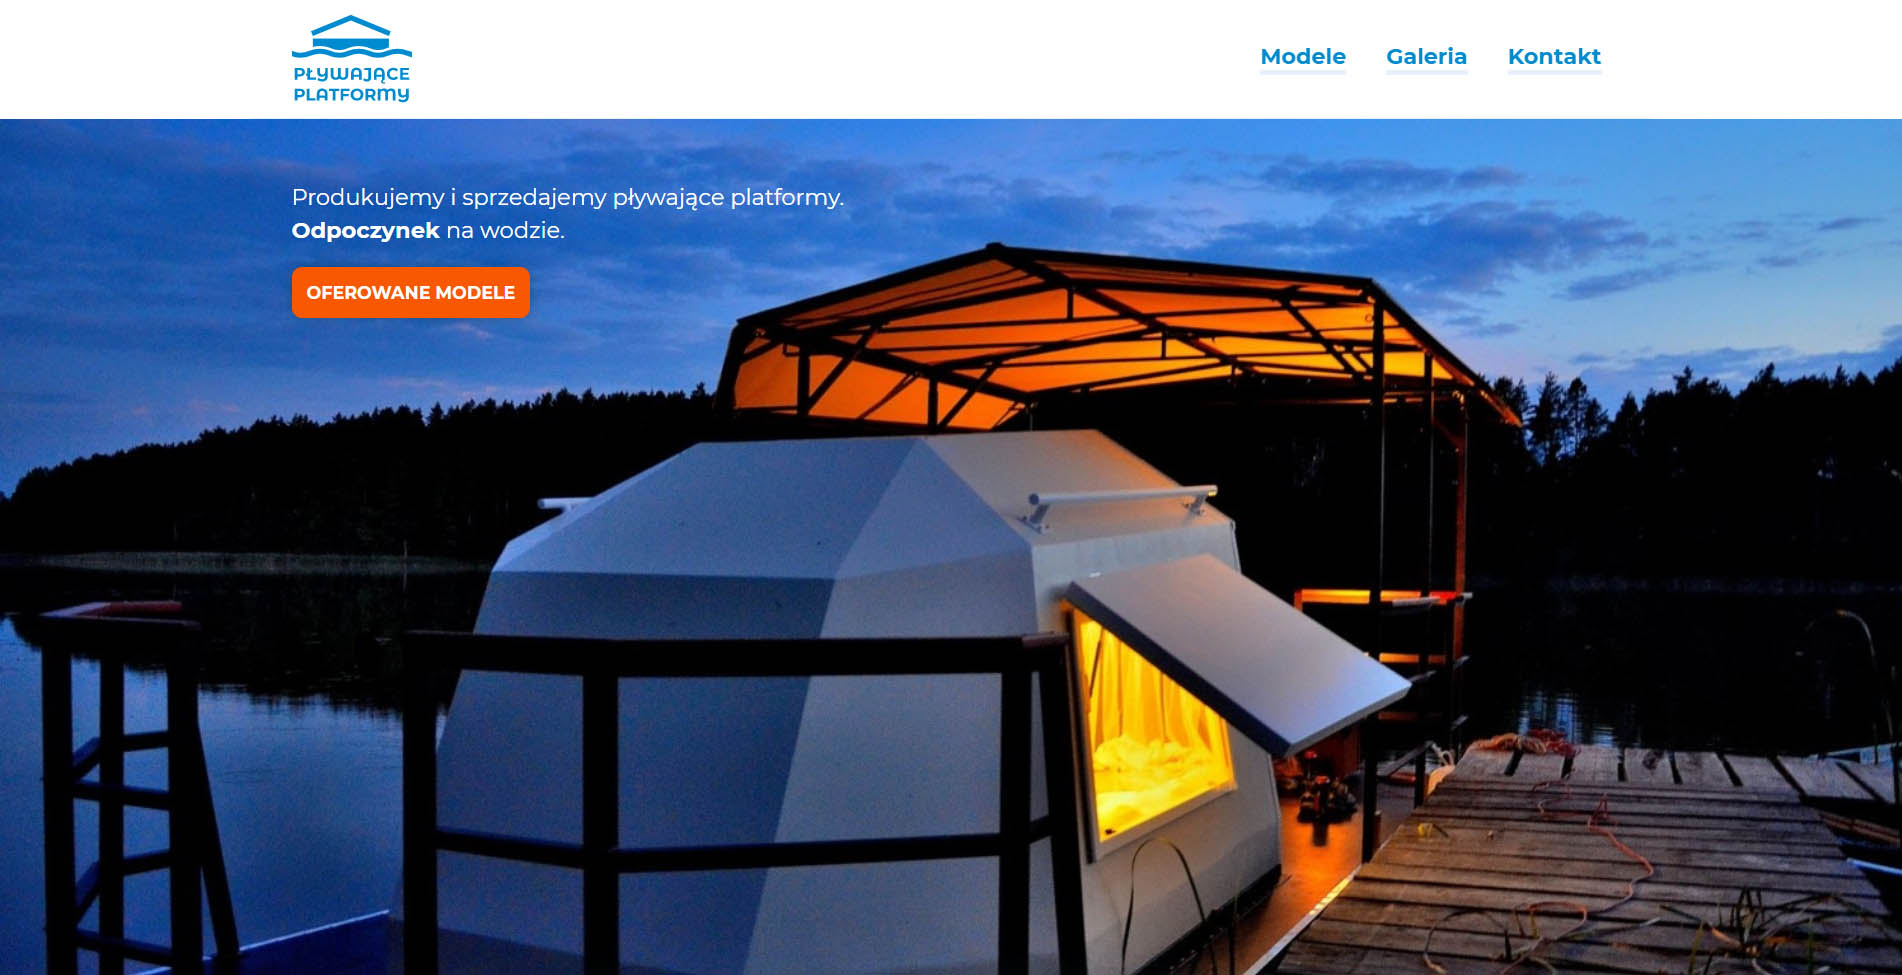
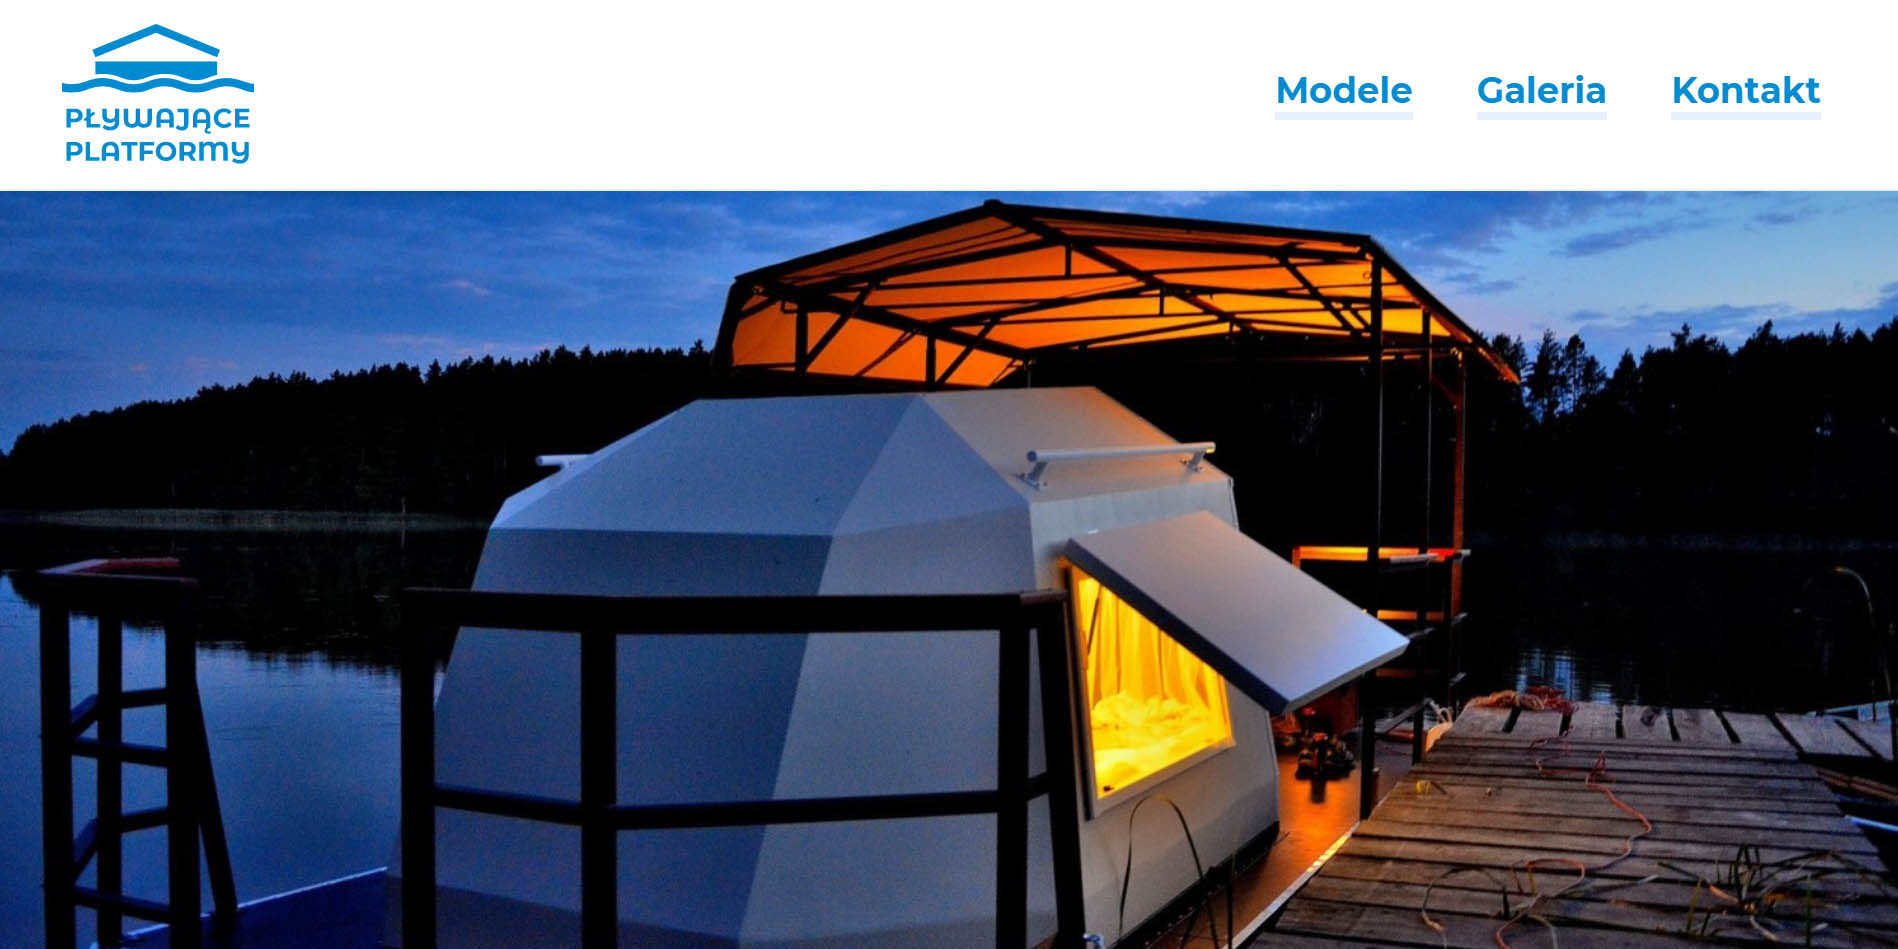
now it can go public actually at least :D
1.0.0.0

diff --git a/src/App/Work/index.jsx b/src/App/Work/index.jsx
@@ -4,6 +4,7 @@ import WorkElement from '../WorkElement';
 import './index.css';
 import PnpImg from '../../images/pnp.jpg';
 import PpImg from '../../images/pp.jpg';
+import PgwImg from '../../images/pgw.jpg';
 
 const Work = () => {
   const gridTransition = {
@@ -25,40 +26,48 @@ const Work = () => {
     title: 'Pogoda na Polu',
     link: "https://pogodanapolu.netlify.app/",
     sourceLink: "https://github.com/LaminarPLayer/pogoda-na-polu",
-    description: <p>Pogoda na Polu (polish, regional: “weather outside”) is a weather web app – also a PWA – that uses an <a href="https://openweathermap.org/api">OpenWeatherMap API</a> API and <a href="https://developers.google.com/maps/documentation/javascript/overview">Google Maps JavaScript API</a>. More description on GitHub.</p>
+    description: <p>Pogoda na Polu (polish, regional: “weather outside”) is a weather web app – also a PWA – that uses an <a href="https://openweathermap.org/api">OpenWeatherMap API</a> API and <a href="https://developers.google.com/maps/documentation/javascript/overview">Google Maps JavaScript API</a>. Built with HTML, CSS (SASS), custom animated SVGs and vanilla JavaScript. More description on GitHub.</p>
   }
 
   const pp = {
     img: <img src={PpImg} alt='Pływające Platformy' />,
     title: 'Pływające Platformy',
     link: "https://strona-platform.netlify.app/",
-    sourceLink: "/",
-    description: <p>XDStrona przerwana</p>
+    // sourceLink: "/",
+    description: <p>A website for a company manufacturing platforms floating on the water. Due to change of company needs the website had not been finished. Built with HTML, CSS and vanilla JavaScript. The animated logo was created using Figma and some code-based SVG modifications.</p>
+  }
+
+  const pgw = {
+    img: <img src={PgwImg} alt='This website' />,
+    title: 'This website itself',
+    link: "/",
+    sourceLink: "https://github.com/LaminarPLayer/pg-website",
+    description: <p>This website was built with React (create-react-app). Yet, still, in development the website can uses some basic React concepts – JSX, functional components with basic hooks and an awesome <a href="https://www.framer.com/motion/">Framer Motion</a> library. The website will be improved week after week.</p>
   }
 
   return (
-    <section id='my-work'>
-      <motion.div className="work-container"
-        drag='x'
-        dragTransition={gridTransition}
-      >
-        <div id="engineering" className="work-topic">
-          <h2>Engineering</h2>
-        </div>
+    <>
+      <h2 id='my-works'>My works</h2>
+      <p>Here are a few projects I made:</p>
+      <section id='my-work'>
+        <motion.div className="work-container"
+          drag='x'
+          dragTransition={gridTransition}
+        >
+          <div id="engineering" className="work-topic">
+            <WorkElement info={pgw} />
+          </div>
 
-        <div id="dev" className="work-topic">
-          <h2>Web Development</h2>
-          <p>Here are a few projects I made:</p>
+          <div id="dev" className="work-topic">
+            <WorkElement info={pnp} />
+          </div>
 
-          <WorkElement info={pnp} />
-          <WorkElement info={pp} />
-        </div>
-
-        <div id="design" className="work-topic">
-          <h2>Design</h2>
-        </div>
-      </motion.div>
-    </section>
+          <div id="design" className="work-topic">
+            <WorkElement info={pp} />
+          </div>
+        </motion.div>
+      </section>
+    </>
   )
 }
 

diff --git a/src/App/Work/index.css b/src/App/Work/index.css
@@ -1,3 +1,7 @@
+h2#my-works {
+  margin: .75rem 0;
+}
+
 section#my-work {
   position: relative;
   display: -webkit-box;
@@ -6,6 +10,7 @@ section#my-work {
   -webkit-box-pack: center;
       -ms-flex-pack: center;
           justify-content: center;
+  max-width: 30rem;
 }
 
 section#my-work .work-container {
@@ -14,9 +19,9 @@ section#my-work .work-container {
   display: -webkit-box;
   display: -ms-flexbox;
   display: flex;
-  -webkit-box-align: center;
-      -ms-flex-align: center;
-          align-items: center;
+  -webkit-box-align: start;
+      -ms-flex-align: start;
+          align-items: flex-start;
 }
 
 section#my-work .work-container .work-topic {
@@ -35,13 +40,8 @@ section#my-work .work-container .work-topic {
           align-items: center;
   width: 100%;
   margin: .5rem;
-  margin-top: 1.5rem;
   border-radius: .25rem;
   background: #0b345a;
-}
-
-section#my-work .work-container .work-topic#dev {
-  margin-top: .5rem;
 }
 
 section#my-work .work-container .work-topic h2 {

diff --git a/src/App/index.css b/src/App/index.css
@@ -14,8 +14,8 @@
           justify-content: flex-start;
   min-height: 100vh;
   overflow-x: hidden;
-  background: -webkit-gradient(linear, left top, left bottom, from(#0b345a), color-stop(10%, #0b345a), to(#000000));
-  background: linear-gradient(#0b345a, #0b345a 10%, #000000);
+  background: -webkit-gradient(linear, left top, left bottom, from(#0b345a), color-stop(10%, #0b345a), to(#000a13));
+  background: linear-gradient(#0b345a, #0b345a 10%, #000a13);
   color: #cae5ff;
 }
 
@@ -28,8 +28,8 @@
   font-size: 1rem;
   border: .125rem solid #cae5ff;
   border-radius: .25rem;
-  -webkit-transition: .25s;
-  transition: .25s;
+  -webkit-transition: .125s;
+  transition: .125s;
 }
 
 .App button:hover {
@@ -38,6 +38,12 @@
 }
 
 .App a {
+  color: #cae5ff;
+  -webkit-transition: .125s;
+  transition: .125s;
+}
+
+.App a:hover {
   color: #F85A3A;
 }
 

diff --git a/src/App/Work/index.scss b/src/App/Work/index.scss
@@ -1,8 +1,14 @@
+
+h2#my-works{
+  margin: .75rem 0;
+}
+
 section#my-work{
   // min-height: 100vh;
   position: relative;
   display: flex;
   justify-content: center;
+  max-width: 30rem;
   
   .work-container{
     position: relative;
@@ -12,7 +18,7 @@ section#my-work{
     // display: grid;
     // grid-template-columns: repeat(3, 1fr);
     display: flex;
-    align-items: center;
+    align-items: flex-start;
 
 
     .work-topic{
@@ -23,16 +29,11 @@ section#my-work{
       width: 100%;
       // height: 100%;
       margin: .5rem;
-      margin-top: 1.5rem;
+      // margin-top: 1.5rem;
       // padding: 1.5rem;
       border-radius: .25rem;
       // text-align: center;
       background: #0b345a;
-
-      &#dev{
-        // border: .125rem solid #F85A3A;
-        margin-top: .5rem;
-      }
 
       h2{
         margin-top: .5rem;

diff --git a/src/App/WorkElement/index.jsx b/src/App/WorkElement/index.jsx
@@ -8,17 +8,17 @@ const WorkElement = ({info}) => {
     <div className='work-element'>
       <h3>{info.title}</h3>
       {info.img}
-      <div className="btn-links">
+      <div className={info.sourceLink !== undefined  ? "btn-links" : "btn-links no-git"}>
         <a href={info.link}>
           <button>
             <BiLinkExternal />
           </button>
         </a>
-        <a href={info.sourceLink}>
+        {info.sourceLink !== undefined  ? <a href={info.sourceLink}>
           <button>
             <FaGithub />
           </button>
-        </a>
+        </a> : ''}
       </div>
       {info.description}
     </div>

diff --git a/src/App/Home/index.jsx b/src/App/Home/index.jsx
@@ -30,13 +30,11 @@ const Home = () => {
       <motion.h1 variants={homeElements}>Piotr Grzegorczyk</motion.h1>
       <motion.h2 variants={homeElements}>and I make <span className="accent">websites</span>.</motion.h2>
       <motion.p variants={homeElements}>
-        I'm a front-end developer.
+        See my projects below.
       </motion.p>
-      <motion.button
-        variants={homeElements}
-      >
-        MY WORK
-      </motion.button>
+      <motion.div variants={homeElements}>
+        <a href="#contact"><button>CONTACT</button></a>
+      </motion.div>
     </motion.section>
   )
 }

diff --git a/src/App/Contact/index.css b/src/App/Contact/index.css
@@ -1,0 +1,25 @@
+section#contact {
+  display: -webkit-box;
+  display: -ms-flexbox;
+  display: flex;
+  -webkit-box-orient: vertical;
+  -webkit-box-direction: normal;
+      -ms-flex-direction: column;
+          flex-direction: column;
+  -webkit-box-pack: center;
+      -ms-flex-pack: center;
+          justify-content: center;
+  -webkit-box-align: center;
+      -ms-flex-align: center;
+          align-items: center;
+  min-height: 85vh;
+}
+
+section#contact > p {
+  margin-top: .75rem;
+}
+
+section#contact > a {
+  margin-top: .25rem;
+}
+/*# sourceMappingURL=index.css.map */

diff --git a/src/App/index.scss b/src/App/index.scss
@@ -7,7 +7,7 @@
   // *******
   // height: 300vh;
   overflow-x: hidden;
-  background: linear-gradient(#0b345a, #0b345a 10%,#000000);
+  background: linear-gradient(#0b345a, #0b345a 10%,#000a13);
   color: #cae5ff;
 
   button{
@@ -19,7 +19,7 @@
     font-size: 1rem;
     border: .125rem solid #cae5ff;
     border-radius: .25rem;
-    transition: .25s;
+    transition: .125s;
 
     &:hover{
       border-color: #F85A3A;
@@ -28,7 +28,12 @@
   }
   
   a{
-    color: #F85A3A;
+    color: #cae5ff;
+    transition: .125s;
+
+    &:hover{
+      color: #F85A3A;
+    }
   }
 
   section{

diff --git a/public/index.html b/public/index.html
@@ -2,12 +2,12 @@
 <html lang="en">
   <head>
     <meta charset="utf-8" />
-    <link rel="icon" href="%PUBLIC_URL%/favicon.ico" />
+    <link rel="icon" href="%PUBLIC_URL%/favicon.png" />
     <meta name="viewport" content="width=device-width, initial-scale=1" />
     <meta name="theme-color" content="#000000" />
     <meta
       name="description"
-      content="Web site created using create-react-app"
+      content="Piotr Grzegorczyk website"
     />
     <link rel="apple-touch-icon" href="%PUBLIC_URL%/logo192.png" />
     <!--

diff --git a/src/App/Contact/index.jsx b/src/App/Contact/index.jsx
@@ -1,0 +1,13 @@
+import React from 'react';
+import './index.css';
+
+const Contact = () => {
+  return (
+    <section id='contact'>
+      <h2>Contact</h2>
+      <p>You can find me on:</p> <a href="https://github.com/LaminarPLayer/">GitHub</a><a href="https://www.linkedin.com/in/piotrgrzegorczyk/">LinkedIn</a><a href="https://twitter.com/GrzegorczykP">Twitter</a><p> or you can e-mail me: </p> <a href="mailto:peter.grzegorczyk@gmail.com">peter.grzegorczyk(at)gmail.com</a>
+    </section>
+  )
+}
+
+export default Contact

diff --git a/src/App/WorkElement/index.css b/src/App/WorkElement/index.css
@@ -12,12 +12,10 @@
   -webkit-box-align: center;
       -ms-flex-align: center;
           align-items: center;
-  margin: .75rem 0;
-  border-top: .125rem solid #cae5ff;
 }
 
 .work-element h3 {
-  padding: .5rem 1rem;
+  padding: 1rem 1rem;
 }
 
 .work-element img {
@@ -36,6 +34,11 @@
   padding: .5rem .75rem;
   -ms-grid-columns: 1fr 1fr;
       grid-template-columns: 1fr 1fr;
+}
+
+.work-element .btn-links.no-git {
+  -ms-grid-columns: 1fr;
+      grid-template-columns: 1fr;
 }
 
 .work-element .btn-links a {

diff --git a/src/App/WorkElement/index.scss b/src/App/WorkElement/index.scss
@@ -5,11 +5,11 @@
   flex-direction: column;
   justify-content: center;
   align-items: center;
-  margin: .75rem 0;
-  border-top: .125rem solid #cae5ff;
+  // margin: .75rem 0;
+  // border-top: .125rem solid #cae5ff;
 
   h3{
-    padding: .5rem 1rem;
+    padding: 1rem 1rem;
   }
   img{
     width: 100%;
@@ -26,6 +26,10 @@
     padding: .5rem .75rem;
     grid-template-columns: 1fr 1fr;
     
+    &.no-git{
+      grid-template-columns: 1fr;
+    }
+
     a{
       width: 100%;
       padding: .5rem;
